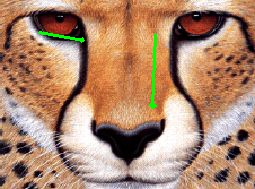
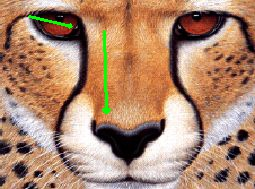
calculate perpendicular

Changed region(s): [[0.3843, 0.1587, 0.4392, 0.6085], [0.5765, 0.1587, 0.6314, 0.582], [0.1098, 0.0529, 0.3294, 0.2381]]

diff --git a/hw2/hw2.py b/hw2/hw2.py
@@ -15,9 +15,9 @@ class ImageData:
         self.featureimg=img # record feature image
         self.window_name = window_name
         self.lines = [] # record points
-        self.vector = []
-        self.vector_length = []
-        self.perp = []
+        self.vector = [] # record the vector
+        self.vector_length = [] # store vector length
+        self.perp = []  # store perpendicular vector
         
 def Perpendicular(start_point, end_point, param):
     vector = end_point-start_point
@@ -25,16 +25,14 @@ def Perpendicular(start_point, end_point, param):
     v_length = np.sqrt(np.sum(vector**2))
     param.vector_length.append(v_length)
     
-    # v_length = np.sqrt(np.sum(v**2, axis=1, keepdims=True))
-    # v_homo = np.pad(v, ((0, 0), (0, 1)), mode="constant") # pad to R3, pad zeros
-    # z_axis = np.zeros(v_homo.shape)
-    # z_axis[:, -1] = 1
-    # p = np.cross(v_homo, z_axis)
-    # p = p[:, :-1] # ignore z axis
-    # p_length = np.sqrt(np.sum(p**2, axis=1, keepdims=True))
-    # p = p / (p_length + 1e-8) # now sum = 1
-    # p *= v_length
-    # return p
+    perp = np.empty_like(vector)
+    perp[0] = -vector[1]
+    perp[1] = vector[0]
+    param.perp.append(perp)
+    
+def normalize(v):
+    v = np.array(v)
+    return v/np.linalg.norm(v)
 
 def PointInterpolation(v1, v2, ratio=0.5):
     # v1, v2 : N x 2
@@ -106,6 +104,7 @@ def warp(src, dst, P1, Q1, P2, Q2, alpha=0.4):
     for i in range(len(src.vector)):
         print(f"v{i} is {src.vector[i]}")
         print(f"v{i}_length is {src.vector_length[i]}")
+        print(f"p{i} is {src.perp[i]}")
 
 if __name__ == "__main__":
     if len(sys.argv) < 3:
